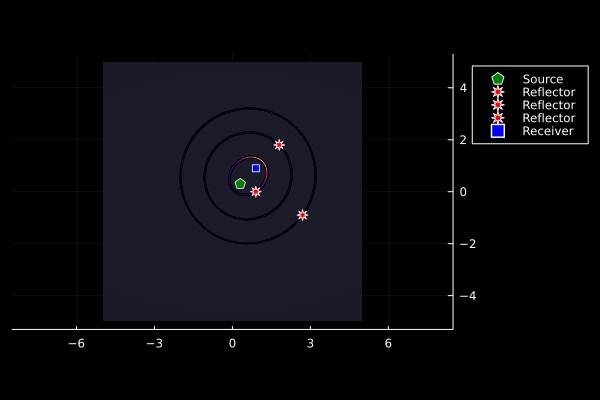
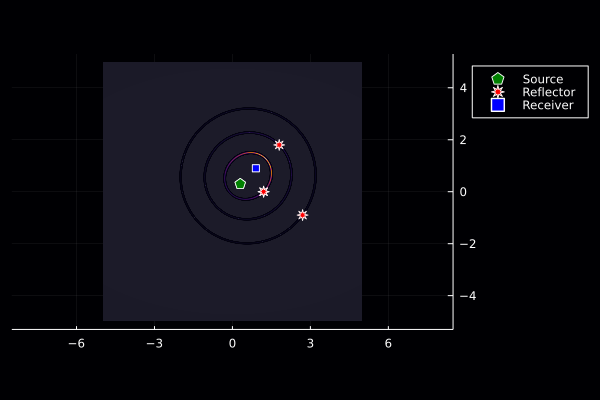
edit scenario C

Changed region(s): [[0.78, 0.24, 0.99, 0.36], [0.36, 0.36, 0.48, 0.51]]

diff --git a/docs/src/omniDirectionalLTI/omnidirLTIsource.md b/docs/src/omniDirectionalLTI/omnidirLTIsource.md
@@ -184,39 +184,42 @@ inverse2Dplot([q],[r],[z],f)
 * multiple stationary ideal point reflectors
 * the source emits an impulse
 
-Given the scenario C assumptions, we simulated the geometry of scenario as follows.
+Given the assumptions, we simulate the following geometry for scenario C.
 
 ![](https://raw.githubusercontent.com/NMSU-ISA/LTVsystems/main/docs/src/assets/scenarioC.png)
 
 ### Forward Modeling
 
-For scenario C, given the position of the source $𝐩ₛ$, the receiver $𝐩ᵣ$, by providing the transmitted signal $p(t)$, and multiple stationary reflectors say N, we obtained the expression for the reflector function as follows
+For scenario C, given the position of the source $𝐩ₛ$, the receiver $𝐩ᵣ$, by providing the transmitted signal $p(t)$, and multiple stationary reflectors say N, the expression for the reflector function is given by
 
-$f(\bm{\xi}) = \sum\limits_{n=1}^{N}\alpha_n \delta(\bm{\xi} - \bm{\xi}_n)$
+$f(\bm{\xi}) = \sum\limits_{n=1}^{N}\alpha_n \delta(\bm{\xi} - \bm{\xi}_n).$
 
-The signal observed at position $\bm{\xi}$ and time $t$ due to the source emitting from position $\bm{p}_\mathrm{s}$ is given as follows.
+The signal observed at position $\bm{\xi}$ and time $t$ due to the source emitting from position $\bm{p}_\mathrm{s}$ is given by
+
+$q(\bm{\xi},t) = p(t) \overset{t}{*} h(\bm{\xi},t;\,{\bm{p}_\mathrm{s}}) ,$
 
 $q(\bm{\xi},t)=\mathrm{A}\left(\frac{\|\bm{\xi}-\bm{p}_\mathrm{s}\|}
-{\mathrm{c}}\right) p\left(t-\frac{\|\bm{\xi}-\bm{p}_\mathrm{s}\|}{\mathrm{c}}\right)$
+{\mathrm{c}}\right) p\left(t-\frac{\|\bm{\xi}-\bm{p}_\mathrm{s}\|}{\mathrm{c}}\right).$
 
-Mathematically, we defined the reflection due to the source as follows.
+Mathematically, we define the reflection due to the source as follows
 
 $r(\bm{\xi},t) = \sum\limits_{n=1}^{N}\alpha_n \delta(\bm{\xi} - \bm{\xi}_n)
 \mathrm{A}\left(\frac{\|\bm{\xi}-\bm{p}_\mathrm{s}\|}
-{\mathrm{c}}\right) p\left(t-\frac{\|\bm{\xi}-\bm{p}_\mathrm{s}\|}{\mathrm{c}}\right)$
+{\mathrm{c}}\right) p\left(t-\frac{\|\bm{\xi}-\bm{p}_\mathrm{s}\|}{\mathrm{c}}\right).$
 
-Now the signal observed at $\bm{p}_\mathrm{r}$ due to the reflection from the position $\bm{\xi}$ is given as follows.
+Now the signal observed at $\bm{p}_\mathrm{r}$ due to the reflection from the position $\bm{\xi}$ is given by
 
-$\psi(\bm{\xi},t) = \mathrm{A}\left(\frac{\|\bm{p}_\mathrm{r}-\bm{\xi}\|}{\mathrm{c}}\right) r\left(\bm{\xi},t-\frac{\|\bm{p}_\mathrm{r}-\bm{\xi}\|}{\mathrm{c}}\right)$
+$\psi(\bm{\xi},t) = r(\bm{\xi},t) \overset{t}{*} g\big(\bm{\xi},t;\,{\bm{p}_\mathrm{r}(\cdot)}\big) ,$
+
+$\psi(\bm{\xi},t) = \mathrm{A}\left(\frac{\|\bm{p}_\mathrm{r}-\bm{\xi}\|}{\mathrm{c}}\right) r\left(\bm{\xi},t-\frac{\|\bm{p}_\mathrm{r}-\bm{\xi}\|}{\mathrm{c}}\right).$
 
 
-We obtained the closed form expression of the observed signal, $z(t)$ as follows.
+Finally, the closed form expression of the observed signal, $z(t)$ is given by
 
 $z(t) = \sum\limits_{n=1}^{N} \alpha_n \mathrm{A}\left(\frac{\|\bm{p}_\mathrm{r}-\bm{\xi}_n\|}{\mathrm{c}}\right)
 \mathrm{A}\left(\frac{\|\bm{\xi}_n-\bm{p}_\mathrm{s}\|}{\mathrm{c}}\right)
-p\left(t-\frac{\|\bm{p}_\mathrm{r}-\bm{\xi}_n\|+\|\bm{\xi}_n-\bm{p}_\mathrm{s}\|}{\mathrm{c}}\right)$
+p\left(t-\frac{\|\bm{p}_\mathrm{r}-\bm{\xi}_n\|+\|\bm{\xi}_n-\bm{p}_\mathrm{s}\|}{\mathrm{c}}\right).$
 
-We plot the signal at the receiver as follows.
 
 ```julia
 using LTVsystems
@@ -225,7 +228,7 @@ using Plots
 𝐩ᵣ =  [0.9, 0.9]
 p(t) = δn(t,1.0e-10)
 q = LTIsourceO(𝐩ₛ, p)
-α₁ = 0.7; 𝛏₁ = [0.9,0.0]
+α₁ = 0.7; 𝛏₁ = [1.2,0.0]
 α₂ = 0.4; 𝛏₂ = [1.8,1.8]
 α₃ = 0.5; 𝛏₃ = [2.7,-0.9]
 r = pointReflector([𝛏₁,𝛏₂,𝛏₃],[α₁,α₂,α₃],[q])
@@ -237,12 +240,12 @@ plot( t, z(t), xlab="time (sec)", ylab="z(t)", legend=:false)
 
 ### Inverse Modeling
 
-Given the scenario C assumptions, we obtained the received signal, $z(t)$. Now we can estimate the reflector function by considering the transmitted signal $p(t)=δ(t)$ as follows.
+Given the scenario C assumptions, we obtained the received signal, $z(t)$. Now we can estimate the reflector function by considering the transmitted signal $p(t)=δ(t)$ as follows
 
 $\hat{f}(\bm{\xi}) = \dfrac{z\left(\frac{\|\bm{p}_\mathrm{r}-
 \bm{\xi}\|+\|\bm{\xi}-\bm{p}_\mathrm{s}\|}{\mathrm{c}}\right)}
 {\mathrm{A}(\frac{\|\bm{\xi}-\bm{p}_\mathrm{s}\|}{\mathrm{c}})    
-\mathrm{A}(\frac{\|\bm{p}_\mathrm{r}-\bm{\xi}\|}{\mathrm{c}})}$
+\mathrm{A}(\frac{\|\bm{p}_\mathrm{r}-\bm{\xi}\|}{\mathrm{c}})}.$
 
 ```julia
 using LTVsystems
@@ -250,13 +253,13 @@ using LTVsystems
 𝐩ᵣ =  [0.9, 0.9]
 p(t) = δn(t,1.0e-10)
 q = LTIsourceO(𝐩ₛ, p)
-α₁ = 0.7; 𝛏₁ = [0.9,0.0]
+α₁ = 0.7; 𝛏₁ = [1.2,0.0]
 α₂ = 0.4; 𝛏₂ = [1.8,1.8]
 α₃ = 0.5; 𝛏₃ = [2.7,-0.9]
 r = pointReflector([𝛏₁,𝛏₂,𝛏₃],[α₁,α₂,α₃],[q])
 z = LTIreceiverO(r,𝐩ᵣ)
-f(ξ::Vector{Float64}) = (z((norm(ξ-𝐩ₛ).+norm(𝐩ᵣ-ξ))./c))./
-                         A(norm(ξ-𝐩ₛ)./c).*A(norm(𝐩ᵣ-ξ)./c)   
+f(ξ::Vector{Float64}) = (z((norm(ξ-𝐩ₛ).+norm(𝐩ᵣ-ξ))/c))/
+                         A(norm(ξ-𝐩ₛ)/c).*A(norm(𝐩ᵣ-ξ)/c)   
 inverse2Dplot([q],r,[z],f)
 ```
 ![](https://raw.githubusercontent.com/NMSU-ISA/LTVsystems/main/docs/src/assets/scenarioC_simulation.png)
